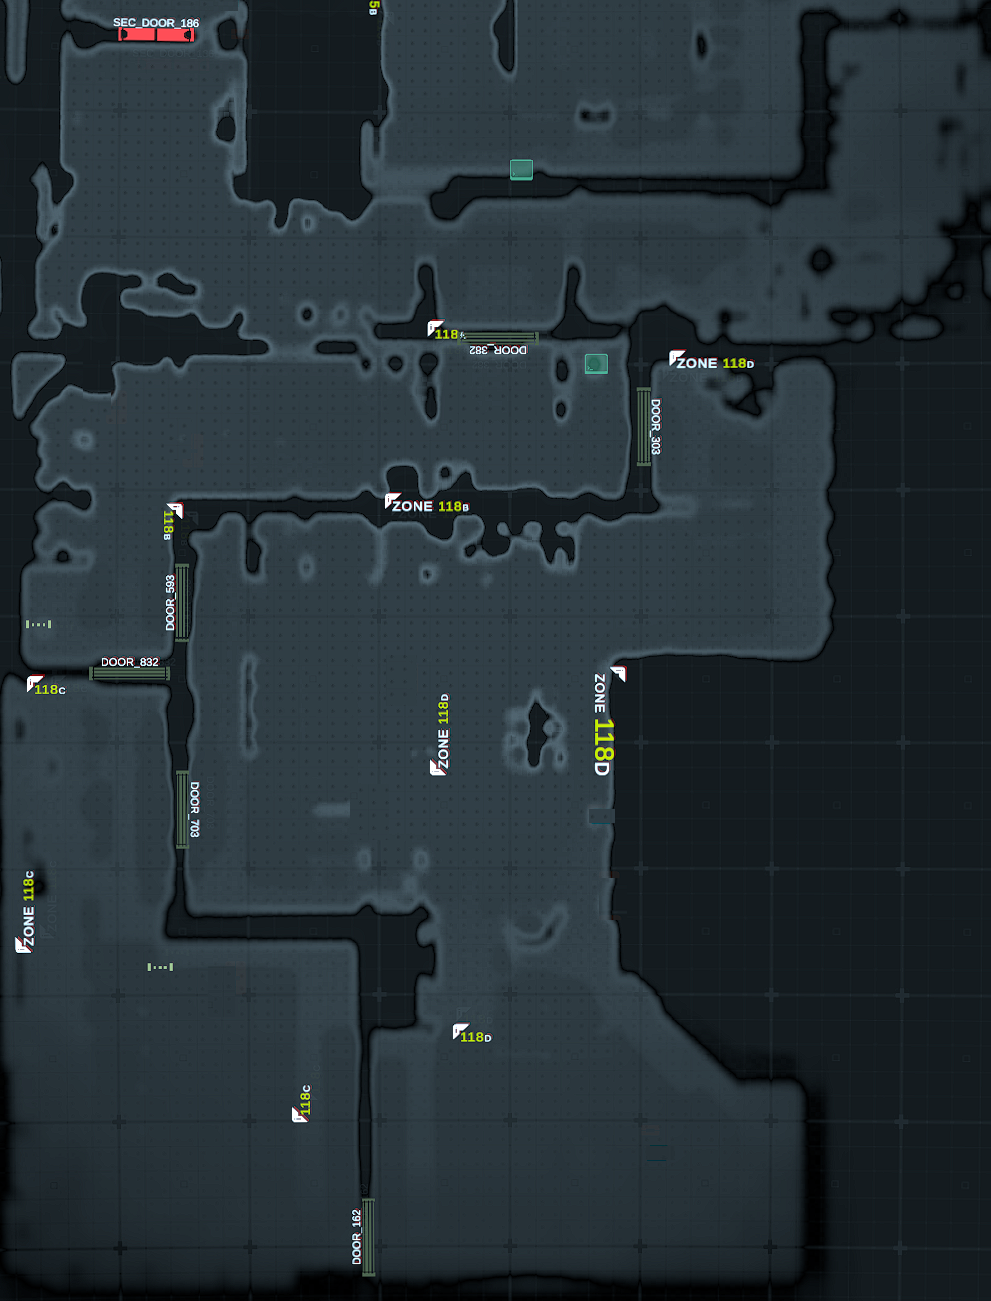
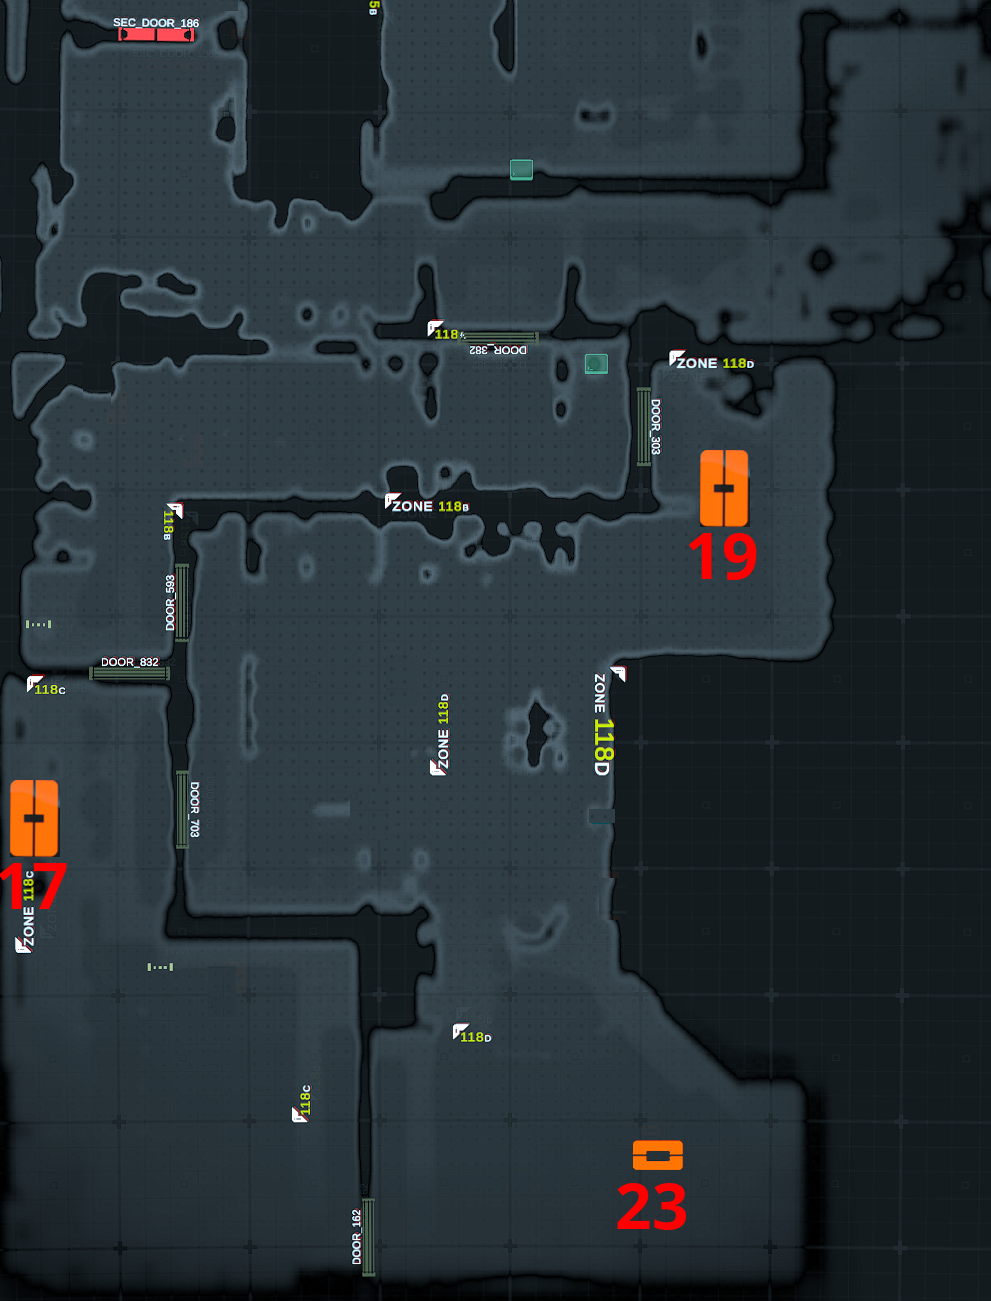
Added zone 115 Key mapping

Changed region(s): [[0.6963, 0.3382, 0.7871, 0.4612], [0.0, 0.5842, 0.0605, 0.7071], [0.6054, 0.8609, 0.6963, 0.9531]]

diff --git a/script.py b/script.py
@@ -9,6 +9,7 @@ import json
 
 ## PIL SETTINGS
 background_114 = Image.open("assets/ZONE_114.png")
+background_115 = Image.open("assets/ZONE_115.png")
 background_118 = Image.open("assets/ZONE_118.png")
 background_119 = Image.open("assets/ZONE_119.png")
 locker_png = Image.open("assets/locker.png")
@@ -57,6 +58,12 @@ ID_List_114 = []
 
 for id in json_data['data']['zone 114']:
     ID_List_114.append(ID_(index=id['index'], seed=id['seed'], area=id['area'], x=id['x'], y=id['y'], islocker=id['islocker']))
+
+#LOADING ZONE 115 IDS
+ID_List_115 = []
+
+for id in json_data['data']['zone 115']:
+    ID_List_115.append(ID_(index=id['index'], seed=id['seed'], area=id['area'], x=id['x'], y=id['y'], islocker=id['islocker']))
 
 #LOADING ZONE 118 IDS
 ID_List_118 = []
@@ -175,13 +182,21 @@ if len(listOfLines) == 0:
 for index, value in enumerate(listOfLines):
         
     lineToBeRead = value
+    if (lineToBeRead[30:81] == "TryGetExistingGenericFunctionDistributionForSession"):
+        lineToBeRead = lineToBeRead[30:186]
+
+        individualWords = lineToBeRead.split()
+        key_id = individualWords[12]
     if (lineToBeRead[15:60] == "GenericSmallPickupItem_Core.SetupFromLevelgen"):
         lineToBeRead = lineToBeRead[15:85]
             
         individualWords = lineToBeRead.split()
         seedList.append(individualWords[2][0:10])
 
-print("All found ID seeds: {}".format(seedList))
+#CHECKING AND GENERATING 115 KEY MAP
+print("KEY ZONE 115:")
+ID_List_115[int(key_id)].print_data()
+ID_List_115[int(key_id)].paste_icon(background_115)
 
 valid_id_count = 0
 
@@ -218,5 +233,6 @@ else:
     print('\033[91m' + "INVALID RUN - VALID IDs FOUND : " + str(valid_id_count) + '\033[0m')
 
 background_114.save("ZONE_114_GENERATED.png")
+background_115.save("ZONE_115_GENERATED.png")
 background_118.save("ZONE_118_GENERATED.png")
 background_119.save("ZONE_119_GENERATED.png")
